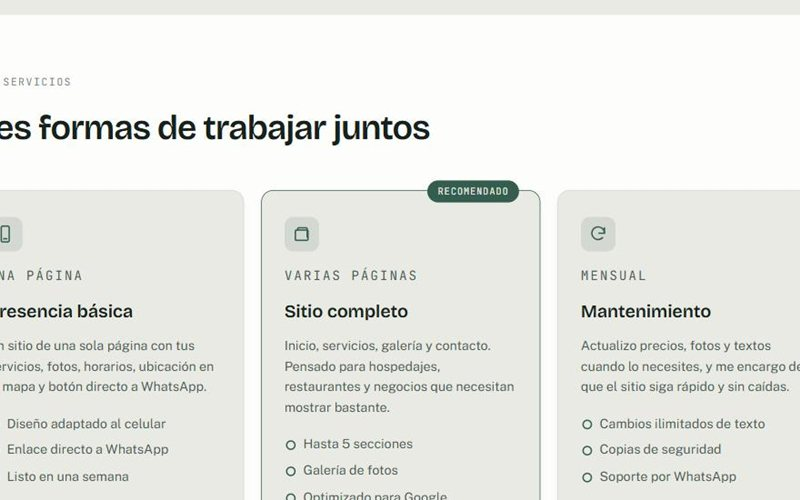
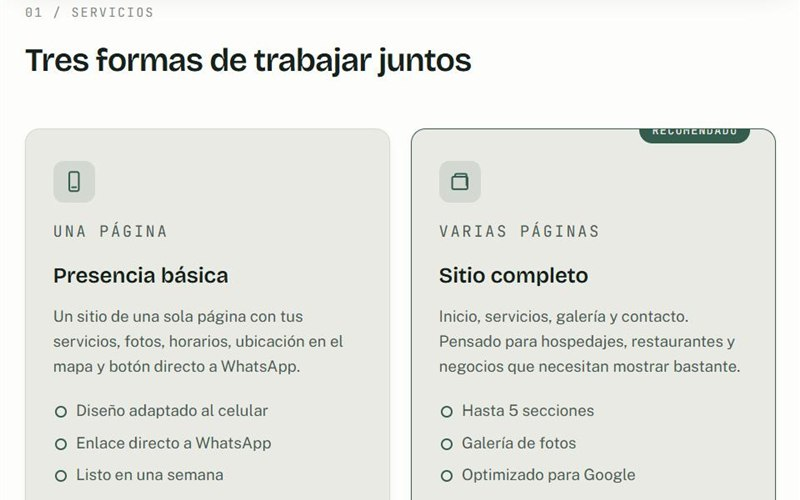
Corrige recorte de la captura en la tarjeta de Proyectos
La imagen anterior cortaba palabras a mitad en los bordes. Además
había un bug real de Chrome: un <img> con atributos width/height del
HTML entra en conflicto con aspect-ratio en CSS y termina usando el
alto natural (500px) en vez del calculado, deformando el recorte de
object-fit: cover. Se resuelve envolviendo la imagen en un div que
controla el tamaño (aspect-ratio + overflow: hidden), y la imagen
adentro solo cubre ese espacio al 100%/100%.

De paso, se retomó la captura con más margen para no cortar texto.

diff --git a/index.html b/index.html
@@ -226,7 +226,9 @@
         <div class="grilla">
           <!-- Copia este bloque completo para agregar un proyecto nuevo -->
           <article class="proyecto">
-            <img class="proyecto-imagen" src="img/proyecto-sitio-personal.jpg" alt="Captura de la sección de servicios del sitio jhontrauco.dev, mostrando las tres tarjetas de precios." width="800" height="500" loading="lazy">
+            <div class="proyecto-imagen-envoltura">
+              <img class="proyecto-imagen" src="img/proyecto-sitio-personal.jpg" alt="Captura de la sección de servicios del sitio jhontrauco.dev, mostrando las tres tarjetas de precios." width="800" height="500" loading="lazy">
+            </div>
             <div class="proyecto-cuerpo">
               <div class="proyecto-cabecera">
                 <h3>Sitio personal</h3>

diff --git a/css/estilos.css b/css/estilos.css
@@ -571,9 +571,15 @@ main { counter-reset: seccion; }
 }
 
 /* Proyectos */
-.proyecto-imagen {
+.proyecto-imagen-envoltura {
   width: 100%;
   aspect-ratio: 16 / 10;
+  overflow: hidden;
+}
+
+.proyecto-imagen {
+  width: 100%;
+  height: 100%;
   object-fit: cover;
   display: block;
 }
